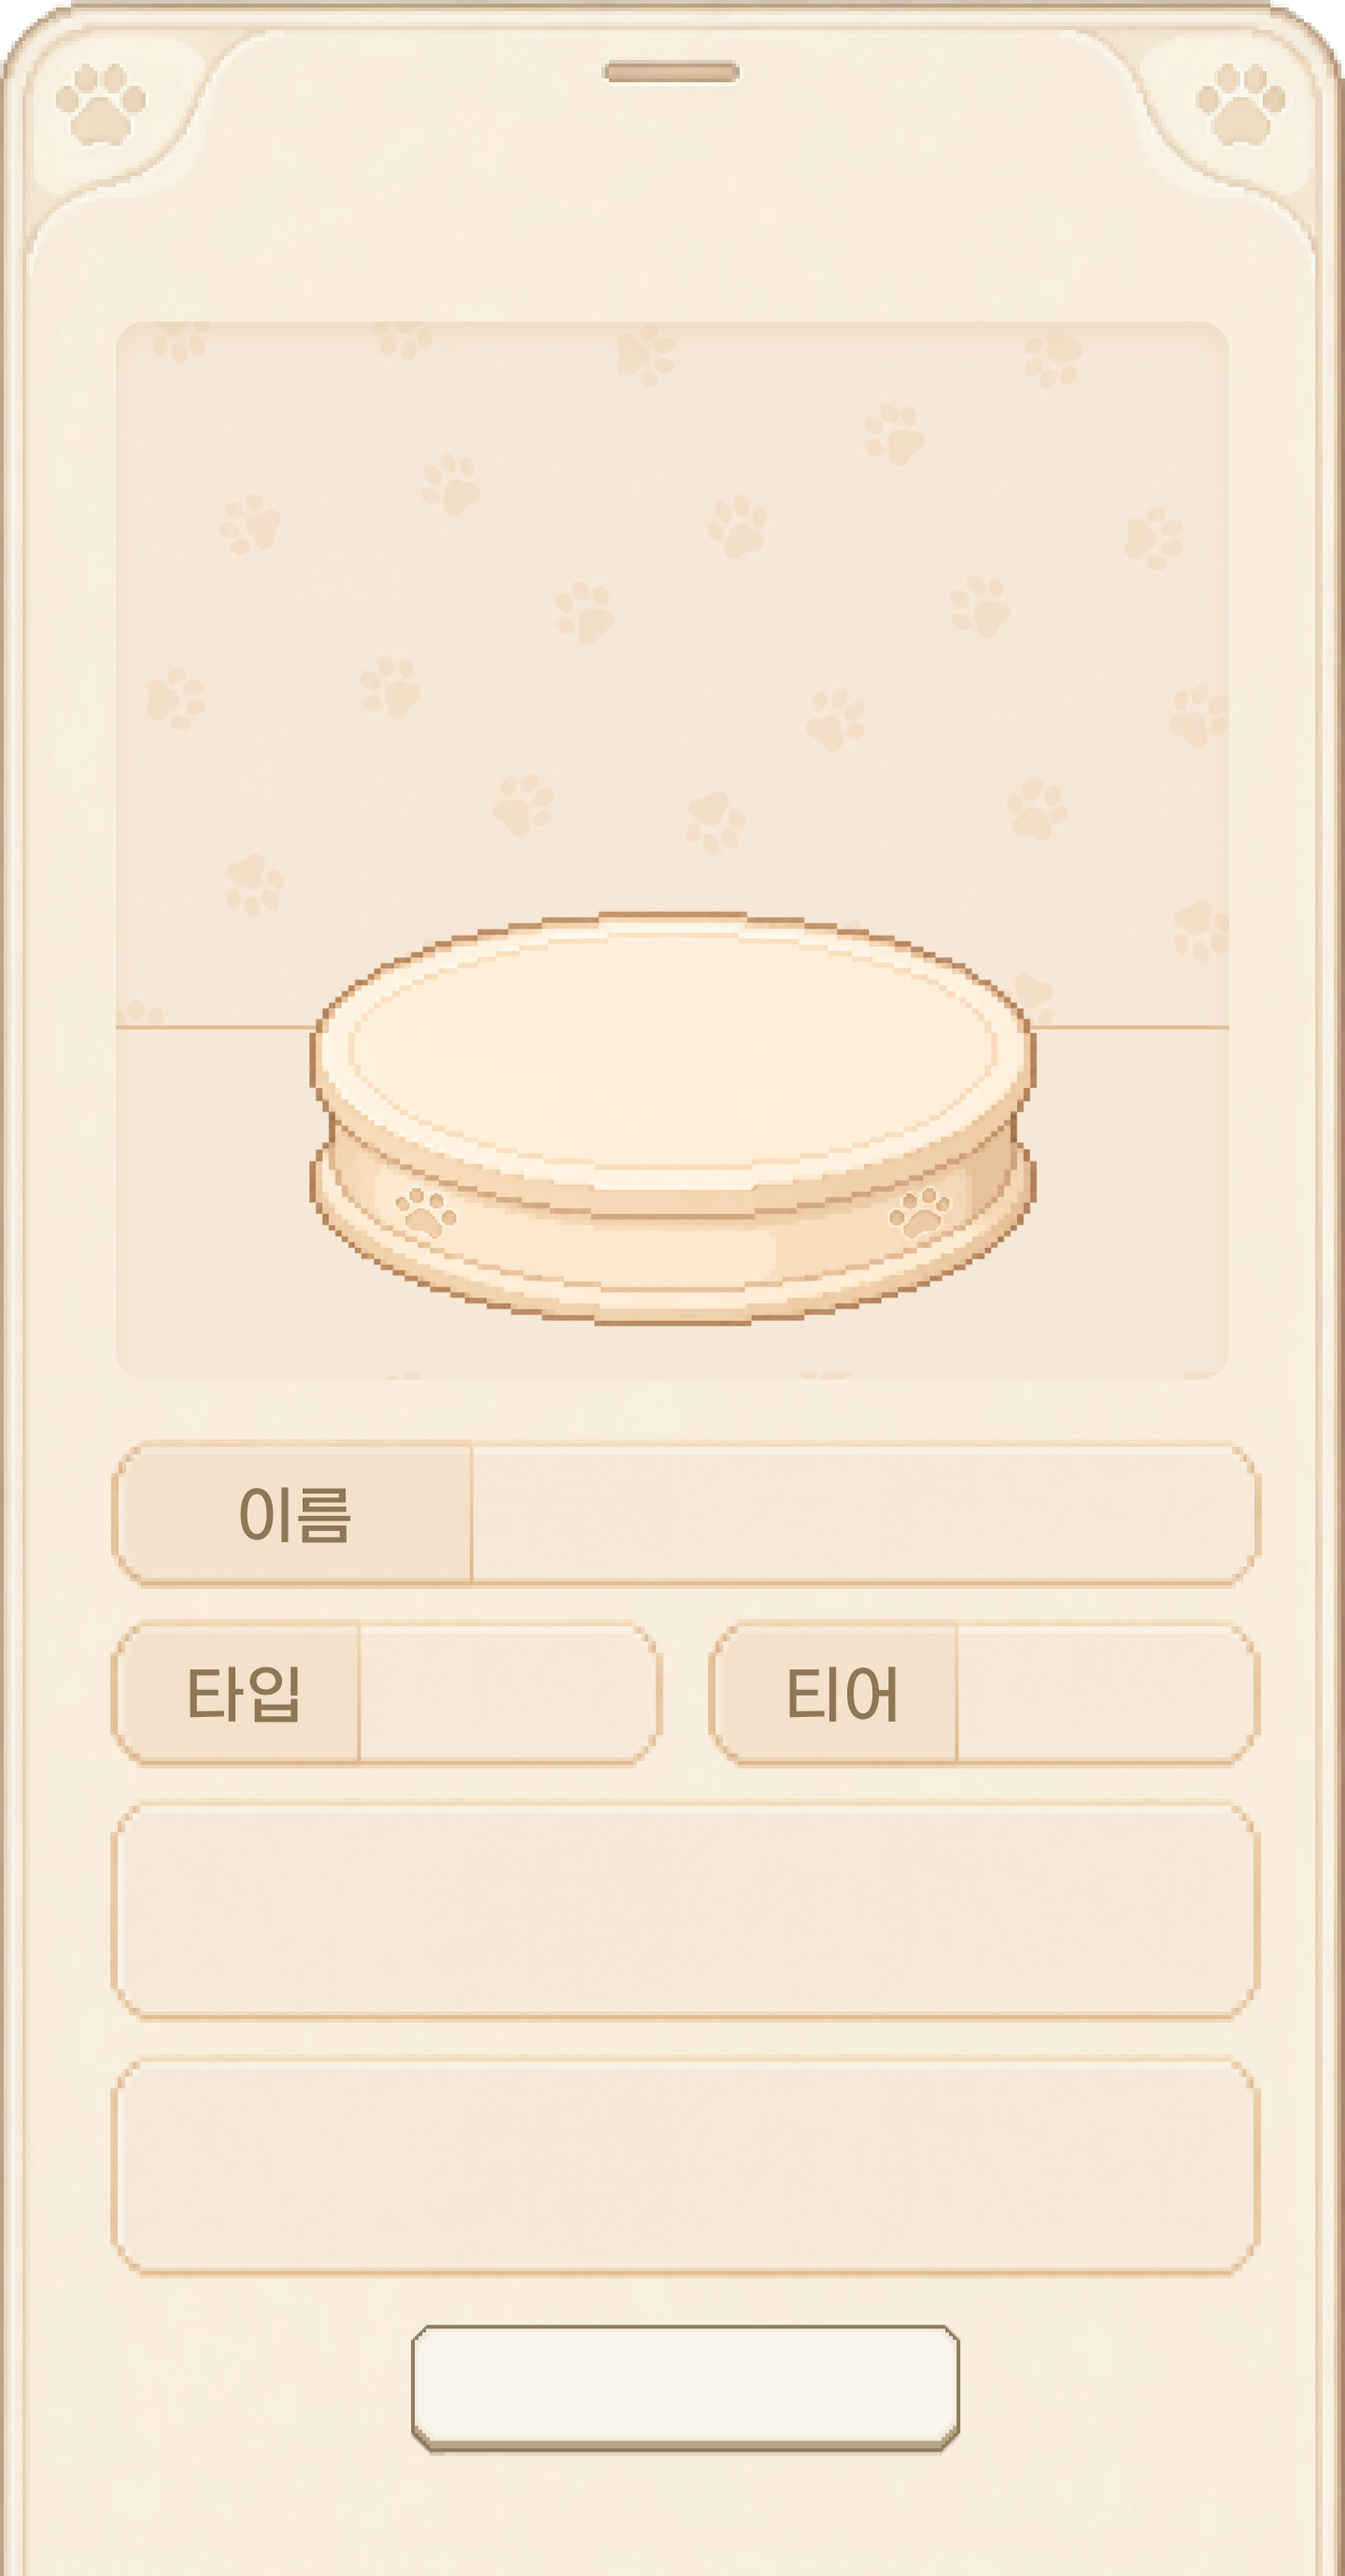
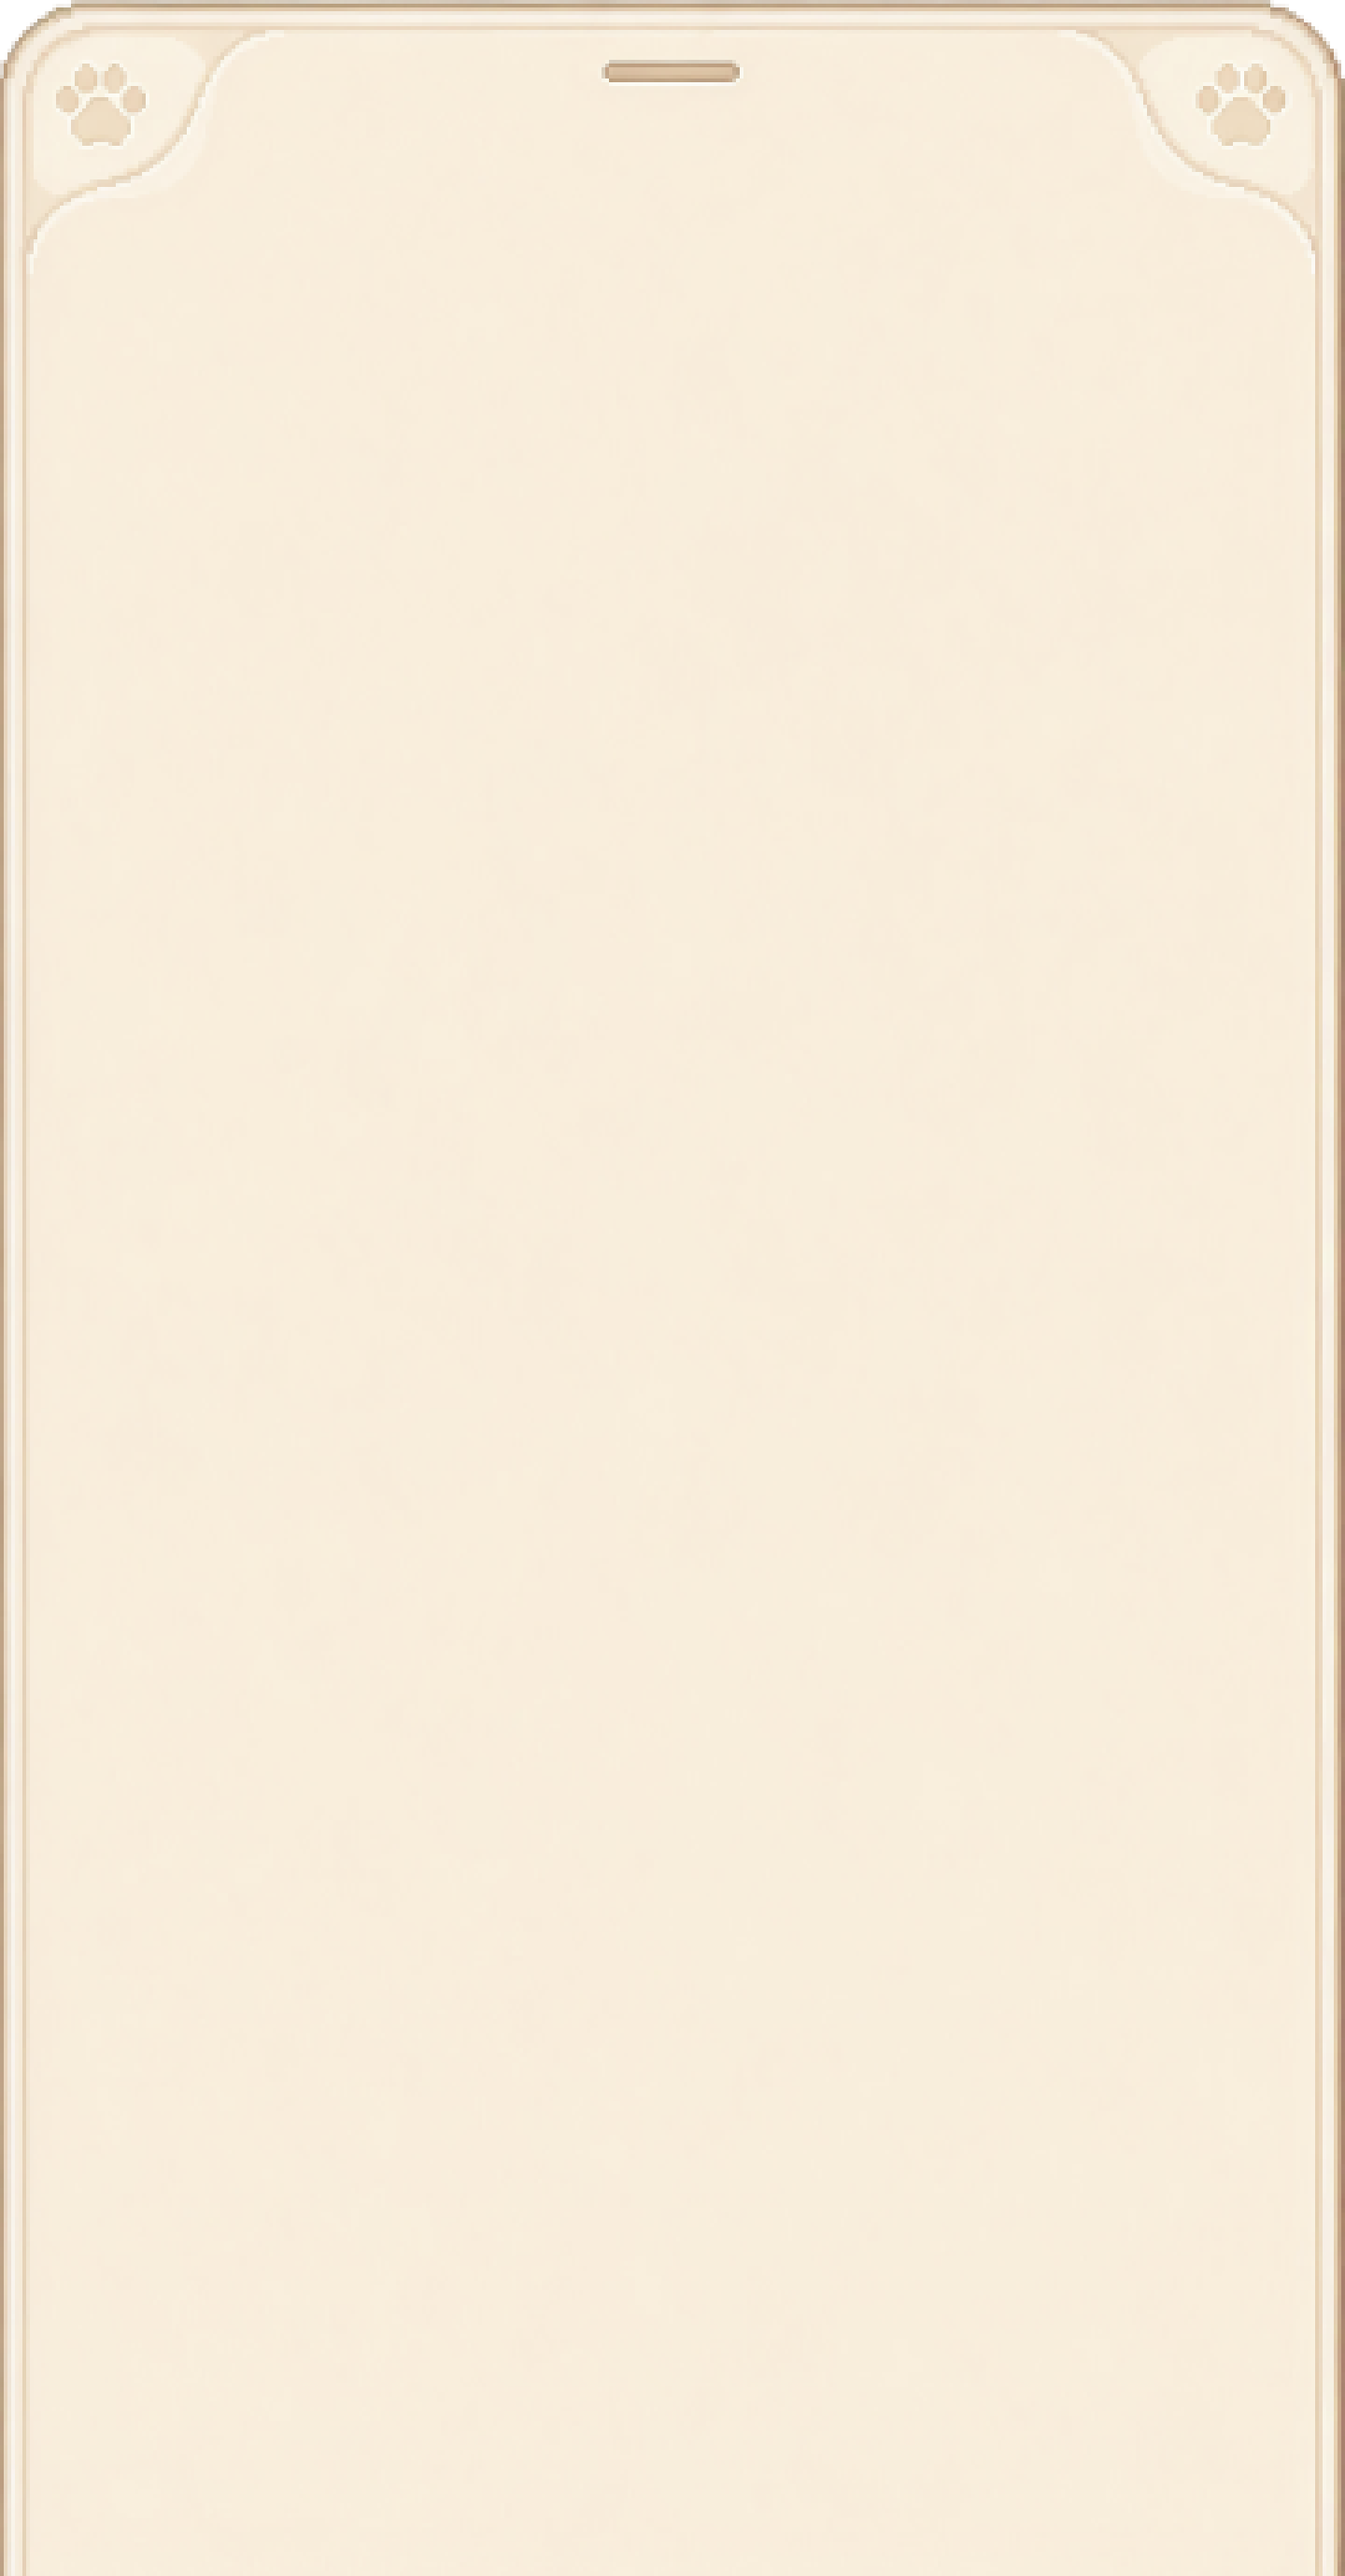
style : 동물 상세 바텀시트 디자인 변경
- 신규 배경과 상세 정보 프레임 및 여정 버튼 이미지 적용
- 프로필 토글 아래 동물과 이름 및 상세 정보 영역 배치
- 모든 크기와 간격 및 위치에 디바이스 너비 비율 적용

Related #10

diff --git a/src/widgets/creature-detail-sheet/ui/CreatureDetailSheet.tsx b/src/widgets/creature-detail-sheet/ui/CreatureDetailSheet.tsx
@@ -15,15 +15,33 @@ const BOTTOM_SHEET_IMAGE = require('@/src/shared/assets/images/farm/creature-det
 const DETAIL_TOGGLE_IMAGE = require('@/src/shared/assets/images/farm/creature-detail-toggle.png');
 const PROFILE_LABEL_IMAGE = require('@/src/shared/assets/images/farm/creature-profile-label.png');
 const CARD_LABEL_IMAGE = require('@/src/shared/assets/images/farm/creature-card-label.png');
-const KKOMI_IMAGE = require('@/src/shared/assets/images/farm/kkomi.png');
-const JOURNEY_LABEL_IMAGE = require('@/src/shared/assets/images/farm/creature-journey-label.png');
+const DETAIL_FRAME_IMAGE = require('@/src/shared/assets/images/farm/creature-detail-frame.png');
+const CREATURE_IMAGE = require('@/src/shared/assets/images/farm/kkomi.png');
+const NAME_FIELD_IMAGE = require('@/src/shared/assets/images/farm/creature-name-field.png');
+const TYPE_FIELD_IMAGE = require('@/src/shared/assets/images/farm/creature-type-field.png');
+const TIER_FIELD_IMAGE = require('@/src/shared/assets/images/farm/creature-tier-field.png');
+const SKILL_FIELD_IMAGE = require('@/src/shared/assets/images/farm/creature-skill-field.png');
+const JOURNEY_BUTTON_IMAGE = require('@/src/shared/assets/images/farm/creature-journey-button.png');
 const SHEET_ASPECT_RATIO = 1440 / 2756;
 const DETAIL_TOGGLE_WIDTH = scaleByDeviceWidth(218);
 const DETAIL_TOGGLE_HEIGHT = scaleByDeviceWidth(35);
 const IMAGE_BOX_TOP_RATIO = 340 / 2756;
 const DETAIL_TOGGLE_GAP = scaleByDeviceWidth(12);
-const JOURNEY_LABEL_WIDTH = scaleByDeviceWidth(99);
-const JOURNEY_LABEL_HEIGHT = JOURNEY_LABEL_WIDTH * (42 / 388);
+const DETAIL_FRAME_WIDTH = scaleByDeviceWidth(298);
+const DETAIL_FRAME_HEIGHT = scaleByDeviceWidth(283);
+const CREATURE_SIZE = scaleByDeviceWidth(220);
+const CREATURE_TOP_OFFSET = scaleByDeviceWidth(40);
+const NAME_FIELD_TOP_GAP = scaleByDeviceWidth(16);
+const NAME_FIELD_WIDTH = scaleByDeviceWidth(308);
+const NAME_LABEL_WIDTH = scaleByDeviceWidth(97);
+const FIELD_HEIGHT = scaleByDeviceWidth(40);
+const DETAIL_FIELDS_ROW_TOP_GAP = scaleByDeviceWidth(8);
+const DETAIL_FIELD_WIDTH = scaleByDeviceWidth(148);
+const DETAIL_FIELDS_ROW_GAP = scaleByDeviceWidth(12);
+const SECTION_GAP = scaleByDeviceWidth(8);
+const SKILL_FIELD_HEIGHT = scaleByDeviceWidth(60.42);
+const JOURNEY_BUTTON_WIDTH = scaleByDeviceWidth(153);
+const JOURNEY_BUTTON_HEIGHT = scaleByDeviceWidth(42);
 
 type CreatureDetailSheetProps = {
   onClose: () => void;
@@ -36,6 +54,19 @@ export function CreatureDetailSheet({
 }: CreatureDetailSheetProps) {
   const sheetWidth = width;
   const sheetHeight = sheetWidth / SHEET_ASPECT_RATIO;
+  const detailFrameTop = sheetHeight * IMAGE_BOX_TOP_RATIO;
+  const detailToggleTop =
+    detailFrameTop - DETAIL_TOGGLE_HEIGHT - DETAIL_TOGGLE_GAP;
+  const nameFieldTop =
+    detailFrameTop + DETAIL_FRAME_HEIGHT + NAME_FIELD_TOP_GAP;
+  const detailFieldsRowTop =
+    nameFieldTop + FIELD_HEIGHT + DETAIL_FIELDS_ROW_TOP_GAP;
+  const firstSkillFieldTop =
+    detailFieldsRowTop + FIELD_HEIGHT + SECTION_GAP;
+  const secondSkillFieldTop =
+    firstSkillFieldTop + SKILL_FIELD_HEIGHT + SECTION_GAP;
+  const journeyButtonTop =
+    secondSkillFieldTop + SKILL_FIELD_HEIGHT + SECTION_GAP;
   const translateY = useRef(new Animated.Value(sheetHeight)).current;
 
   useEffect(() => {
@@ -93,10 +124,7 @@ export function CreatureDetailSheet({
             style={({ pressed }) => [
               styles.detailToggle,
               {
-                top:
-                  sheetHeight * IMAGE_BOX_TOP_RATIO -
-                  DETAIL_TOGGLE_HEIGHT -
-                  DETAIL_TOGGLE_GAP,
+                top: detailToggleTop,
                 width: DETAIL_TOGGLE_WIDTH,
                 height: DETAIL_TOGGLE_HEIGHT,
               },
@@ -123,105 +151,123 @@ export function CreatureDetailSheet({
           </Pressable>
 
           <Image
-            accessibilityLabel="꼬미"
+            accessibilityLabel="동물 상세 프레임"
             resizeMode="contain"
-            source={KKOMI_IMAGE}
+            source={DETAIL_FRAME_IMAGE}
             style={[
-              styles.creature,
+              styles.detailFrame,
               {
-                top: sheetHeight * 0.27,
-                width: sheetWidth * 0.43,
-                height: sheetWidth * 0.43,
+                top: detailFrameTop,
+                width: DETAIL_FRAME_WIDTH,
+                height: DETAIL_FRAME_HEIGHT,
               },
             ]}
           />
 
+          <Image
+            accessibilityLabel="꼬미"
+            resizeMode="contain"
+            source={CREATURE_IMAGE}
+            style={[
+              styles.creature,
+              {
+                top: detailFrameTop + CREATURE_TOP_OFFSET,
+                width: CREATURE_SIZE,
+                height: CREATURE_SIZE,
+              },
+            ]}
+          />
+
+          <Image
+            resizeMode="contain"
+            source={NAME_FIELD_IMAGE}
+            style={[
+              styles.nameField,
+              {
+                top: nameFieldTop,
+                width: NAME_FIELD_WIDTH,
+                height: FIELD_HEIGHT,
+              },
+            ]}
+          />
           <View
+            pointerEvents="none"
             style={[
               styles.nameValue,
               {
-                top: sheetHeight * 0.555,
-                left: sheetWidth * 0.35,
-                width: sheetWidth * 0.58,
-                height: sheetHeight * 0.055,
+                top: nameFieldTop,
+                width: NAME_FIELD_WIDTH,
+                height: FIELD_HEIGHT,
+                paddingLeft: NAME_LABEL_WIDTH,
               },
             ]}
           >
-            <Text style={styles.valueText}>꼬미</Text>
+            <Text style={styles.nameValueText}>꼬미</Text>
           </View>
 
           <View
             style={[
-              styles.typeValue,
+              styles.detailFieldsRow,
               {
-                top: sheetHeight * 0.624,
-                left: sheetWidth * 0.265,
-                width: sheetWidth * 0.225,
-                height: sheetHeight * 0.055,
+                top: detailFieldsRowTop,
+                width: NAME_FIELD_WIDTH,
+                height: FIELD_HEIGHT,
+                columnGap: DETAIL_FIELDS_ROW_GAP,
               },
             ]}
           >
-            <Text style={styles.smallValueText}>포유류</Text>
+            <Image
+              accessibilityLabel="동물 타입"
+              resizeMode="contain"
+              source={TYPE_FIELD_IMAGE}
+              style={styles.detailField}
+            />
+            <Image
+              accessibilityLabel="동물 티어"
+              resizeMode="contain"
+              source={TIER_FIELD_IMAGE}
+              style={styles.detailField}
+            />
           </View>
 
-          <View
+          <Image
+            accessibilityLabel="첫 번째 동물 스킬"
+            resizeMode="contain"
+            source={SKILL_FIELD_IMAGE}
             style={[
-              styles.tierValue,
+              styles.skillField,
               {
-                top: sheetHeight * 0.624,
-                left: sheetWidth * 0.705,
-                width: sheetWidth * 0.225,
-                height: sheetHeight * 0.055,
+                top: firstSkillFieldTop,
+                width: NAME_FIELD_WIDTH,
+                height: SKILL_FIELD_HEIGHT,
               },
             ]}
-          >
-            <Text style={styles.smallValueText}>희귀</Text>
-          </View>
+          />
 
-          <View
+          <Image
+            accessibilityLabel="두 번째 동물 스킬"
+            resizeMode="contain"
+            source={SKILL_FIELD_IMAGE}
             style={[
-              styles.skillContent,
+              styles.skillField,
               {
-                top: sheetHeight * 0.695,
-                left: sheetWidth * 0.085,
-                width: sheetWidth * 0.83,
-                height: sheetHeight * 0.08,
+                top: secondSkillFieldTop,
+                width: NAME_FIELD_WIDTH,
+                height: SKILL_FIELD_HEIGHT,
               },
             ]}
-          >
-            <Text style={styles.skillName}>말랑한 친구</Text>
-            <Text numberOfLines={1} style={styles.skillDescription}>
-              포근한 매력으로 주변 친구들의 기분을 좋게 해줘요.
-            </Text>
-          </View>
-
-          <View
-            style={[
-              styles.skillContent,
-              {
-                top: sheetHeight * 0.792,
-                left: sheetWidth * 0.085,
-                width: sheetWidth * 0.83,
-                height: sheetHeight * 0.08,
-              },
-            ]}
-          >
-            <Text style={styles.skillName}>행운의 발걸음</Text>
-            <Text numberOfLines={1} style={styles.skillDescription}>
-              농장을 산책하며 작은 행운과 보상을 찾아줘요.
-            </Text>
-          </View>
+          />
 
           <Image
             accessibilityLabel="새로운 여정 보내기"
             resizeMode="contain"
-            source={JOURNEY_LABEL_IMAGE}
+            source={JOURNEY_BUTTON_IMAGE}
             style={[
-              styles.journeyLabel,
+              styles.journeyButton,
               {
-                top:
-                  sheetHeight * 0.919 -
-                  JOURNEY_LABEL_HEIGHT / 2,
+                top: journeyButtonTop,
+                width: JOURNEY_BUTTON_WIDTH,
+                height: JOURNEY_BUTTON_HEIGHT,
               },
             ]}
           />
@@ -269,69 +315,55 @@ const styles = StyleSheet.create({
     width: scaleByDeviceWidth(88),
     height: scaleByDeviceWidth(17),
   },
+  detailFrame: {
+    position: 'absolute',
+    alignSelf: 'center',
+    zIndex: 1,
+  },
   creature: {
+    position: 'absolute',
+    zIndex: 2,
+    alignSelf: 'center',
+  },
+  nameField: {
     position: 'absolute',
     alignSelf: 'center',
     zIndex: 1,
   },
   nameValue: {
     position: 'absolute',
-    alignItems: 'center',
-    justifyContent: 'center',
-  },
-  typeValue: {
-    position: 'absolute',
-    alignItems: 'center',
-    justifyContent: 'center',
-  },
-  tierValue: {
-    position: 'absolute',
-    alignItems: 'center',
-    justifyContent: 'center',
-  },
-  valueText: {
-    color: '#745D40',
-    fontFamily: 'EliceDXNeolli-Bold',
-    fontSize: scaleByDeviceWidth(16),
-    includeFontPadding: false,
-    textAlign: 'center',
-    textAlignVertical: 'center',
-  },
-  smallValueText: {
-    color: '#745D40',
-    fontFamily: 'EliceDXNeolli-Bold',
-    fontSize: scaleByDeviceWidth(16),
-    includeFontPadding: false,
-    textAlign: 'center',
-    textAlignVertical: 'center',
-  },
-  skillContent: {
-    position: 'absolute',
-    justifyContent: 'center',
-    paddingHorizontal: scaleByDeviceWidth(12),
-  },
-  skillName: {
-    color: '#654300',
-    fontFamily: 'EliceDXNeolli-Bold',
-    fontSize: scaleByDeviceWidth(16),
-    includeFontPadding: false,
-    lineHeight: scaleByDeviceWidth(19),
-    textAlignVertical: 'center',
-  },
-  skillDescription: {
-    color: '#654300',
-    fontFamily: 'EliceDXNeolli-Medium',
-    fontSize: scaleByDeviceWidth(10),
-    includeFontPadding: false,
-    lineHeight: scaleByDeviceWidth(15),
-    textAlignVertical: 'center',
-  },
-  journeyLabel: {
-    position: 'absolute',
     zIndex: 2,
     alignSelf: 'center',
-    width: JOURNEY_LABEL_WIDTH,
-    height: JOURNEY_LABEL_HEIGHT,
+    alignItems: 'center',
+    justifyContent: 'center',
+  },
+  nameValueText: {
+    color: '#745D40',
+    fontFamily: 'EliceDXNeolli-Bold',
+    fontSize: scaleByDeviceWidth(16),
+    includeFontPadding: false,
+    textAlign: 'center',
+    textAlignVertical: 'center',
+  },
+  detailFieldsRow: {
+    position: 'absolute',
+    zIndex: 1,
+    alignSelf: 'center',
+    flexDirection: 'row',
+  },
+  detailField: {
+    width: DETAIL_FIELD_WIDTH,
+    height: FIELD_HEIGHT,
+  },
+  skillField: {
+    position: 'absolute',
+    zIndex: 1,
+    alignSelf: 'center',
+  },
+  journeyButton: {
+    position: 'absolute',
+    zIndex: 1,
+    alignSelf: 'center',
   },
   pressed: {
     opacity: 0.75,
